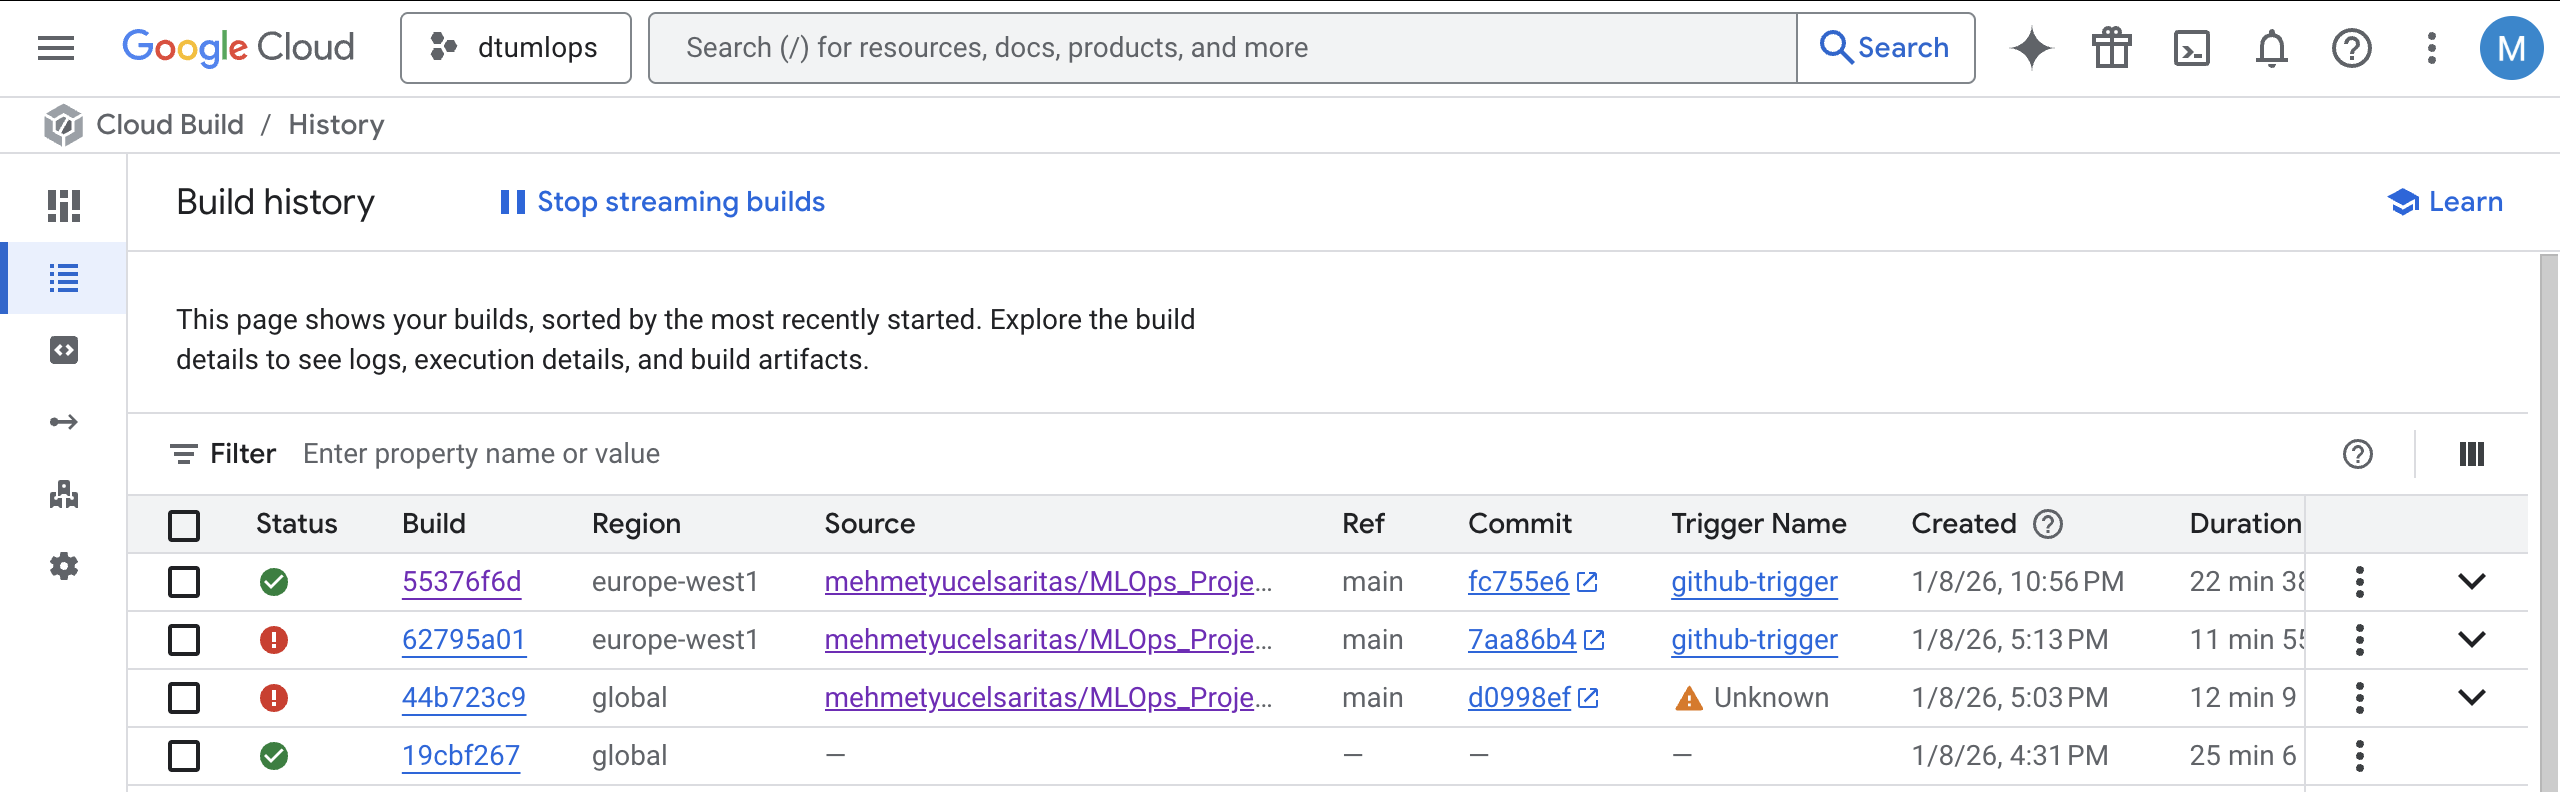
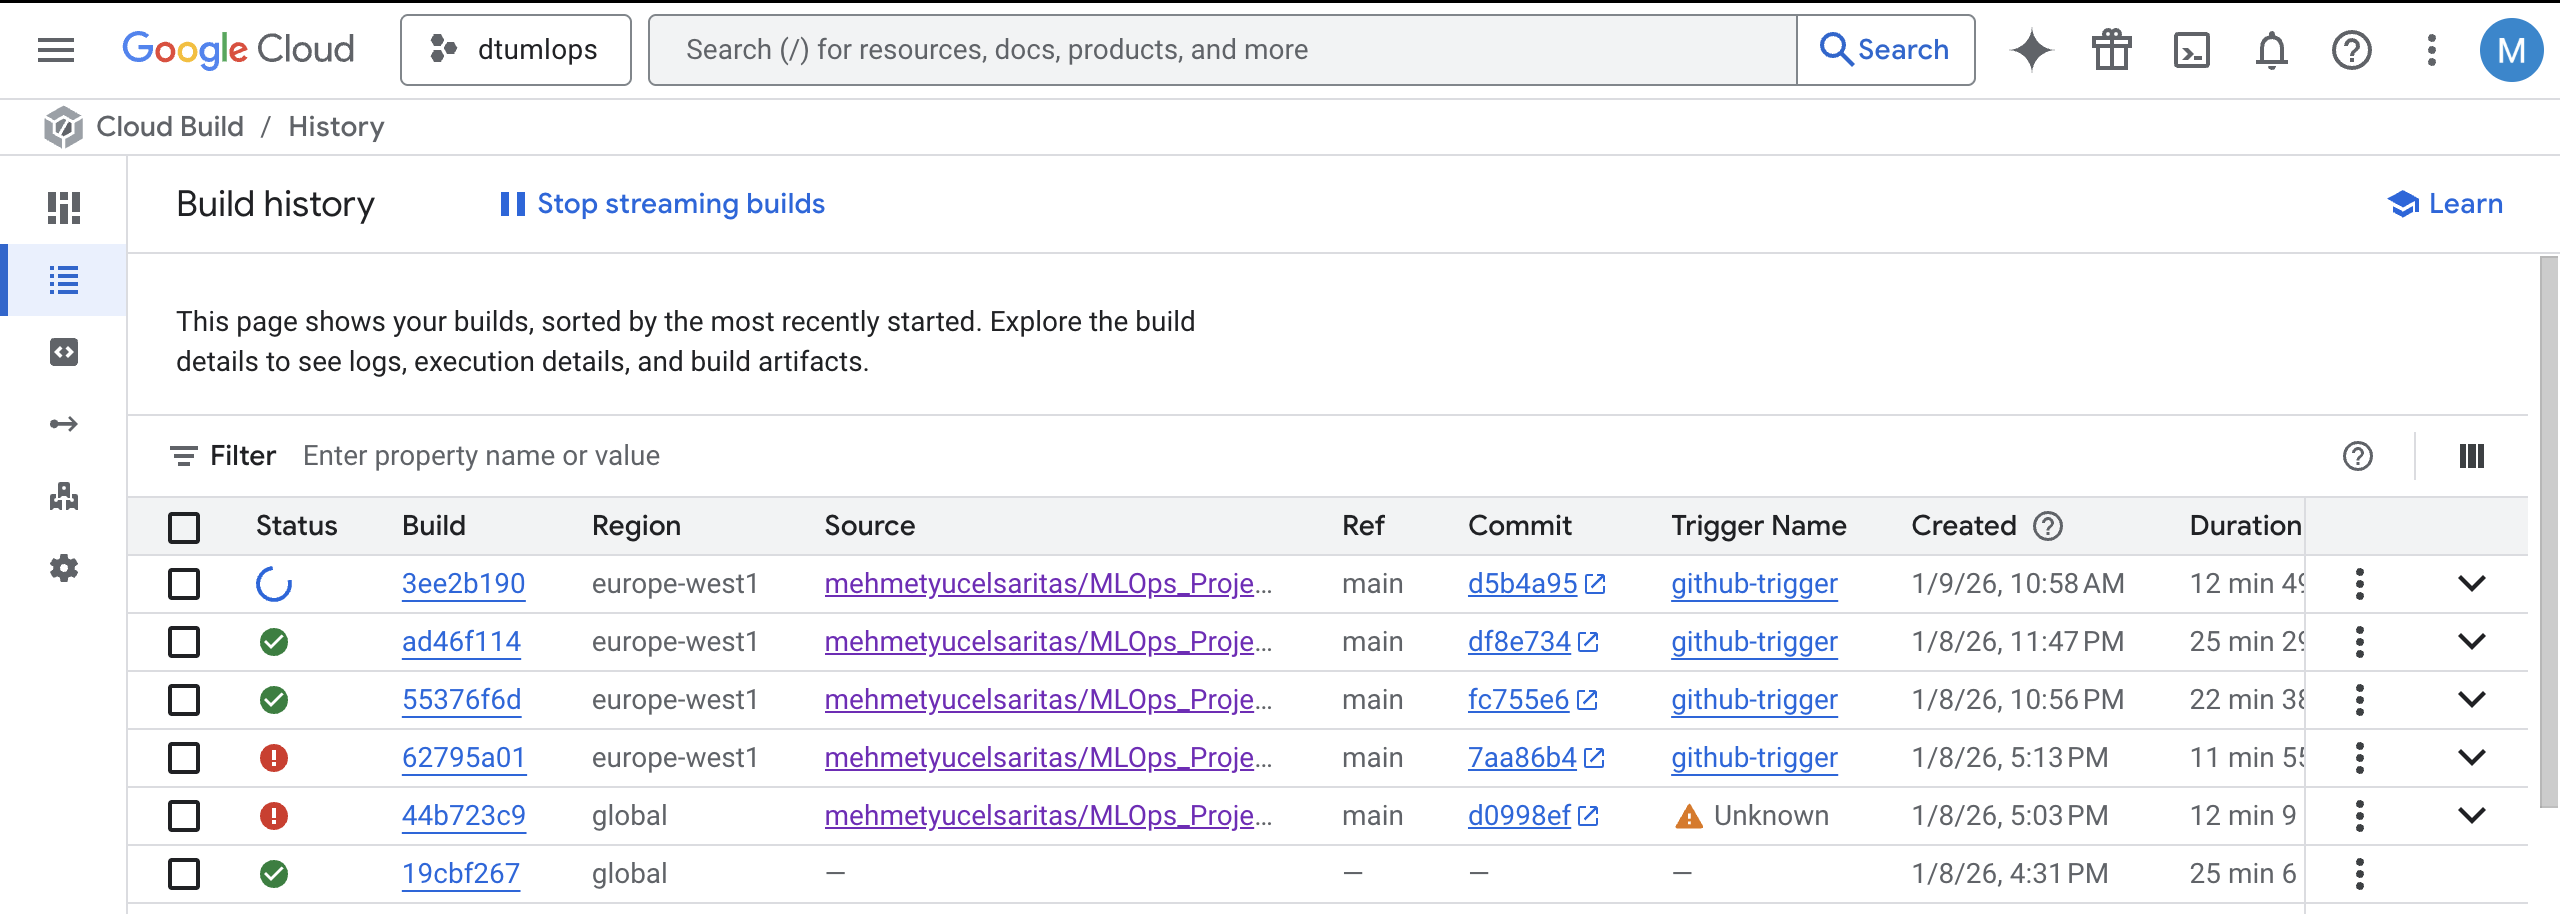
Update docker file

diff --git a/reports/README.md b/reports/README.md
@@ -88,7 +88,7 @@ will check the repositories and the code to verify your answers.
 * [x] Create a data storage in GCP Bucket for your data and link this with your data version control setup (M21)
 * [x] Create a trigger workflow for automatically building your docker images (M21)
 * [ ] Get your model training in GCP using either the Engine or Vertex AI (M21)
-* [ ] Create a FastAPI application that can do inference using your model (M22)
+* [x] Create a FastAPI application that can do inference using your model (M22)
 * [ ] Deploy your model in GCP using either Functions or Run as the backend (M23)
 * [ ] Write API tests for your application and setup continues integration for these (M24)
 * [ ] Load test your application (M24)
